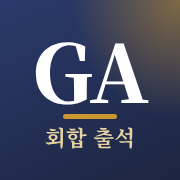
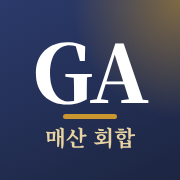
홈 화면 이름을 매산GA회합으로 변경
Claude-Session: https://claude.ai/code/session_01BZNHurAC7taa6GacmF9ZZp

Changed region(s): [[0.5, 0.6944, 0.75, 0.8333], [0.25, 0.6944, 0.4722, 0.8333]]

diff --git a/index.html b/index.html
@@ -7,7 +7,7 @@
 <link rel="manifest" href="manifest.webmanifest">
 <meta name="theme-color" content="#1C2541">
 <meta name="apple-mobile-web-app-capable" content="yes"><meta name="mobile-web-app-capable" content="yes">
-<meta name="apple-mobile-web-app-title" content="회합 출석"><meta name="apple-mobile-web-app-status-bar-style" content="black-translucent">
+<meta name="apple-mobile-web-app-title" content="매산GA회합"><meta name="apple-mobile-web-app-status-bar-style" content="black-translucent">
 <link rel="apple-touch-icon" href="apple-touch-icon.png"><link rel="icon" type="image/png" href="icon-192.png">
 <link rel="preconnect" href="https://fonts.googleapis.com"><link rel="preconnect" href="https://fonts.gstatic.com" crossorigin>
 <link href="https://fonts.googleapis.com/css2?family=Noto+Sans+KR:wght@400;500;700&family=Noto+Serif+KR:wght@600;700&display=swap" rel="stylesheet">
